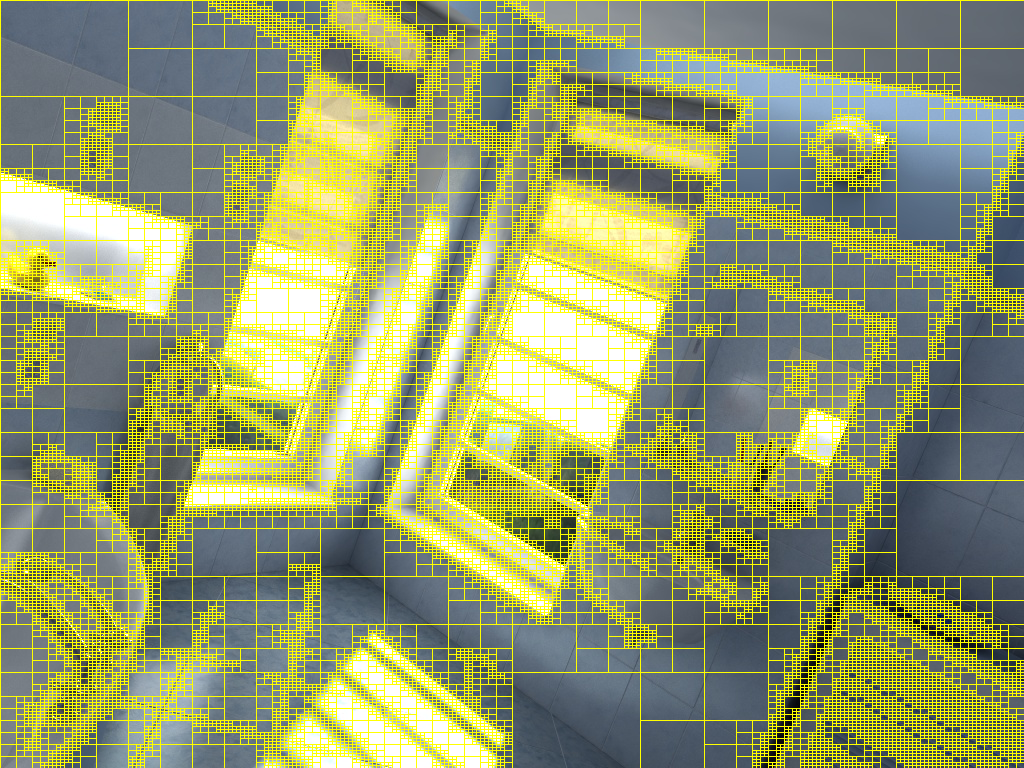
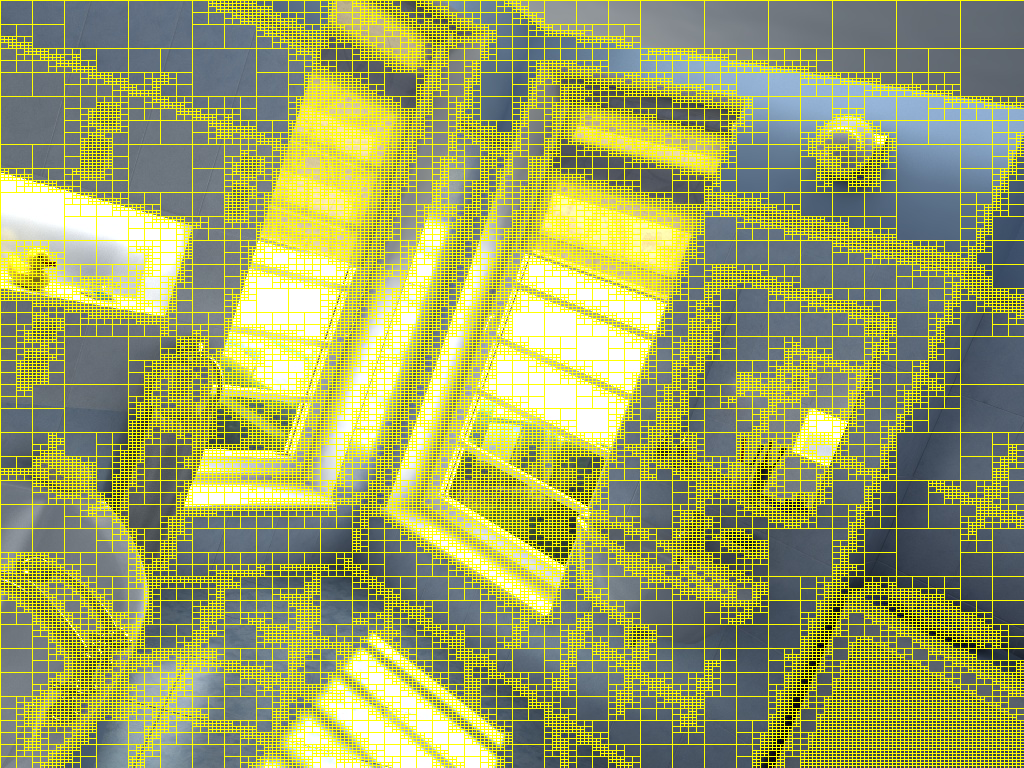
FIX: tweaked rgb edge detector so its a bit more aggressive

diff --git a/quadtree.py b/quadtree.py
@@ -162,7 +162,7 @@ def test_quadtree_workflow():
     
     # --- Execute Pre-Calculated Canny Extractor on RGB COLOR ---
     color_gray = cv2.cvtColor(color_img_bgr, cv2.COLOR_BGR2GRAY)
-    rgb_edges_mask = cv2.Canny(color_gray, threshold1=50, threshold2=150) # Tighter threshold bounds for noisy color images
+    rgb_edges_mask = cv2.Canny(color_gray, threshold1=30, threshold2=90) # Tighter threshold bounds for noisy color images
     
     # Mathematical Stack of both structural edge detection variants
     combined_edges_mask = cv2.bitwise_or(depth_edges_mask, rgb_edges_mask)
